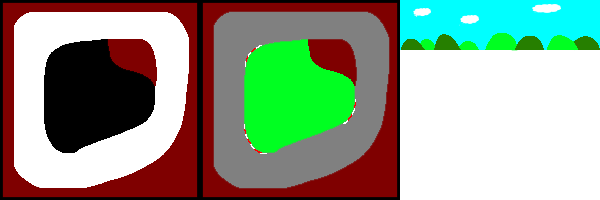
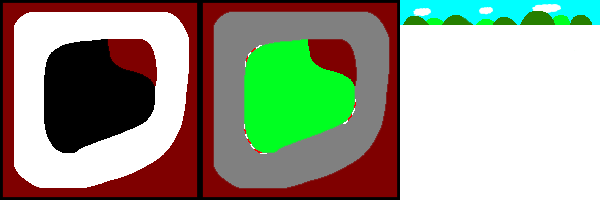
コース画像のインデックスを修正し、正しい画像を表示するように変更

Changed region(s): [[0.66, 0.03, 1.0, 0.27]]

diff --git a/main.py b/main.py
@@ -179,7 +179,7 @@ class TimeAttack:
         self.x_pos, self.y_pos, self.rot = 0, 0, 0
         self.frame = np.random.uniform(0, 1, (self.hres, self.harf_vres*2, 3))
 
-        self.cource = pg.surfarray.array3d(self.resources.cource_images[3]["show"])
+        self.cource = pg.surfarray.array3d(self.resources.cource_images[0]["show"])
         self.sky = pg.surfarray.array3d(pg.transform.scale(self.resources.cource_images[0]["sky"], (360, self.harf_vres*2)))
         # self.game_state = "running"
 
